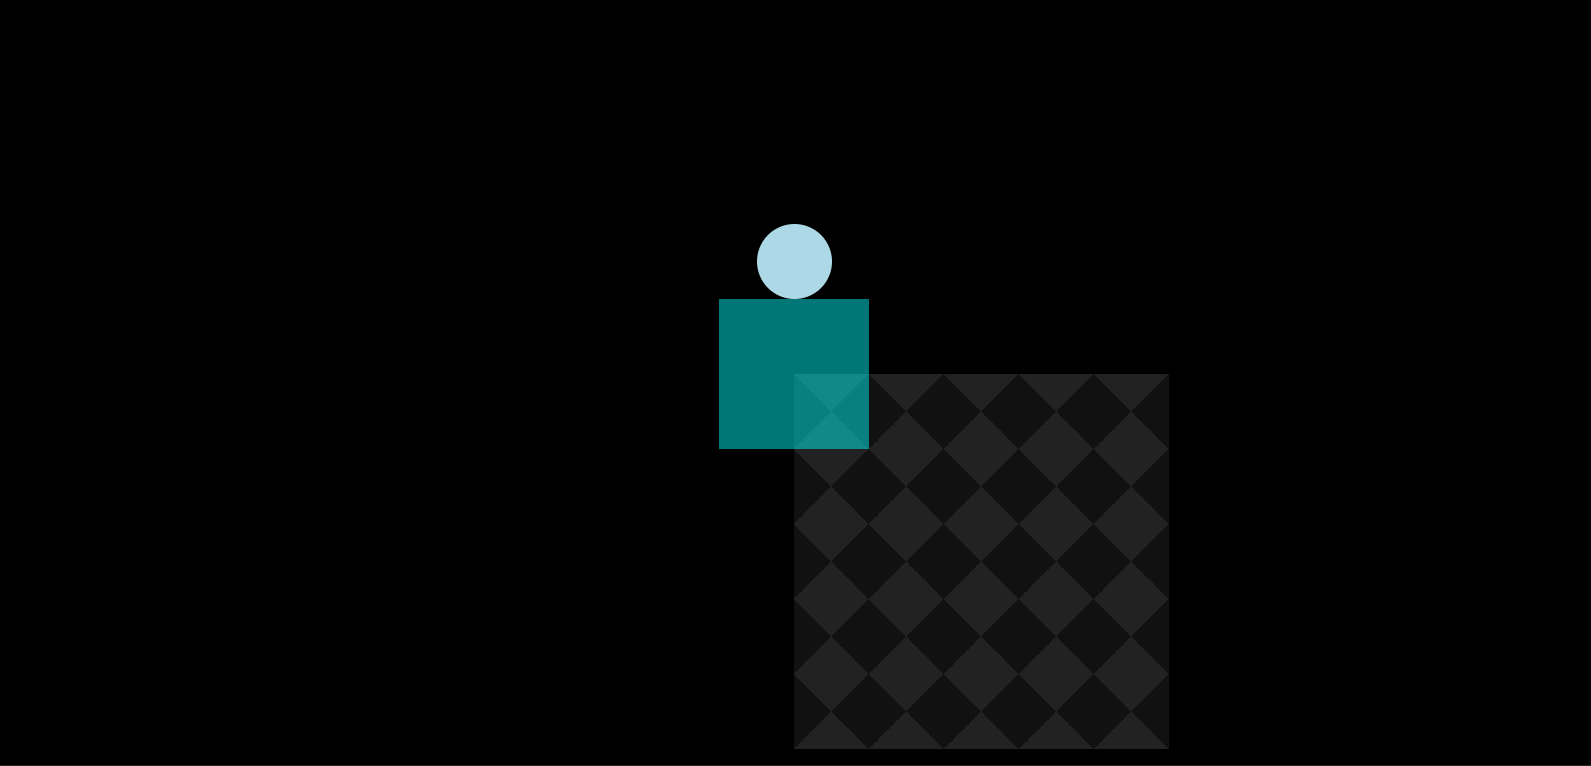
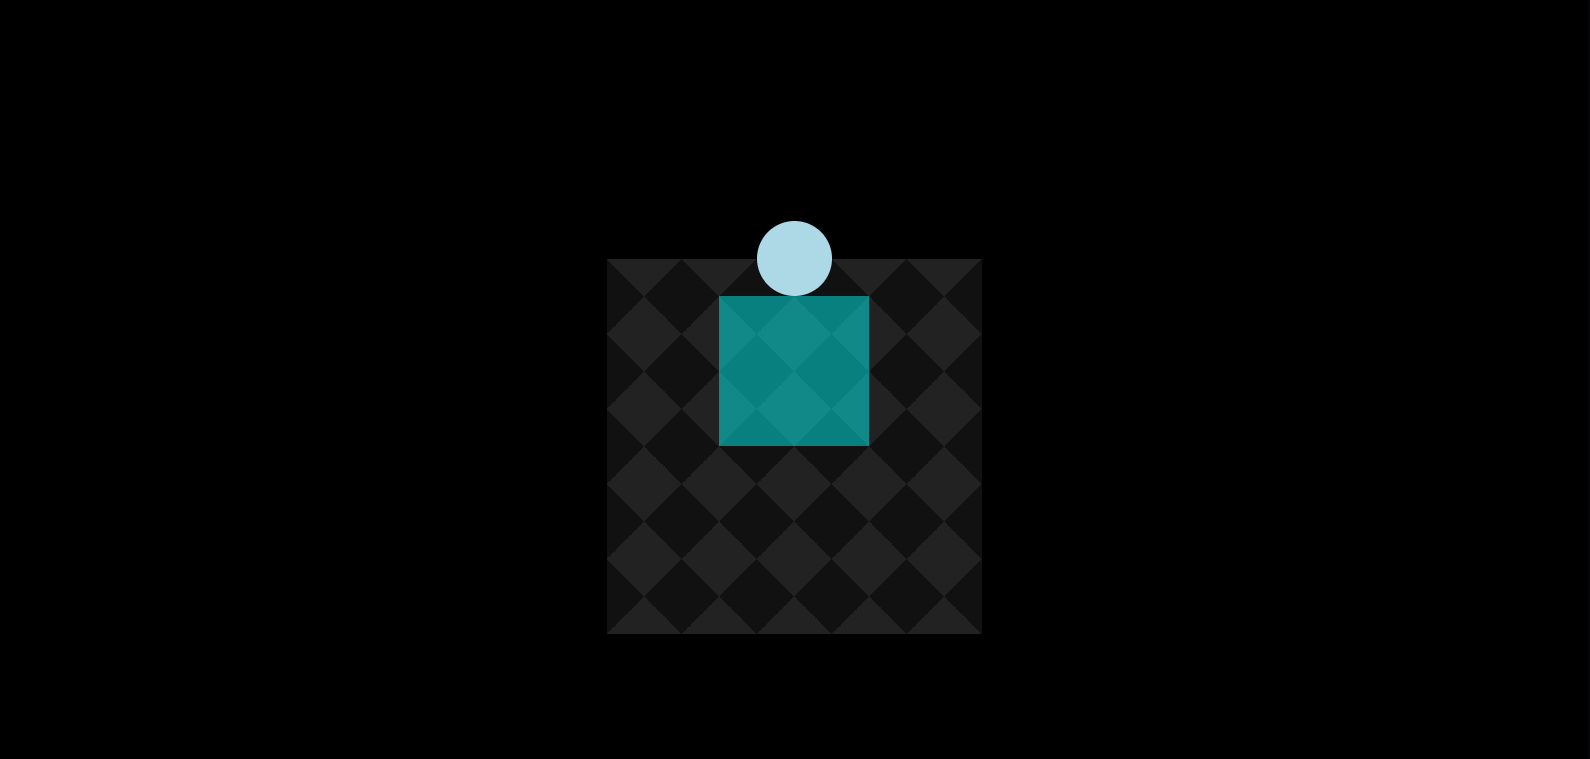
Add placement of floor :sparkles:

Changed region(s): [[0.3698, 0.3333, 0.7396, 1.0], [0.5239, 0.3333, 0.6164, 0.4848]]

diff --git a/src/main.scss b/src/main.scss
@@ -52,4 +52,6 @@ body {
   background-size: 1em 1em;
   /* Position of the floor */
   position: absolute;
+  top: 1em;
+  transform: translate(-50%, -50%);
 }
